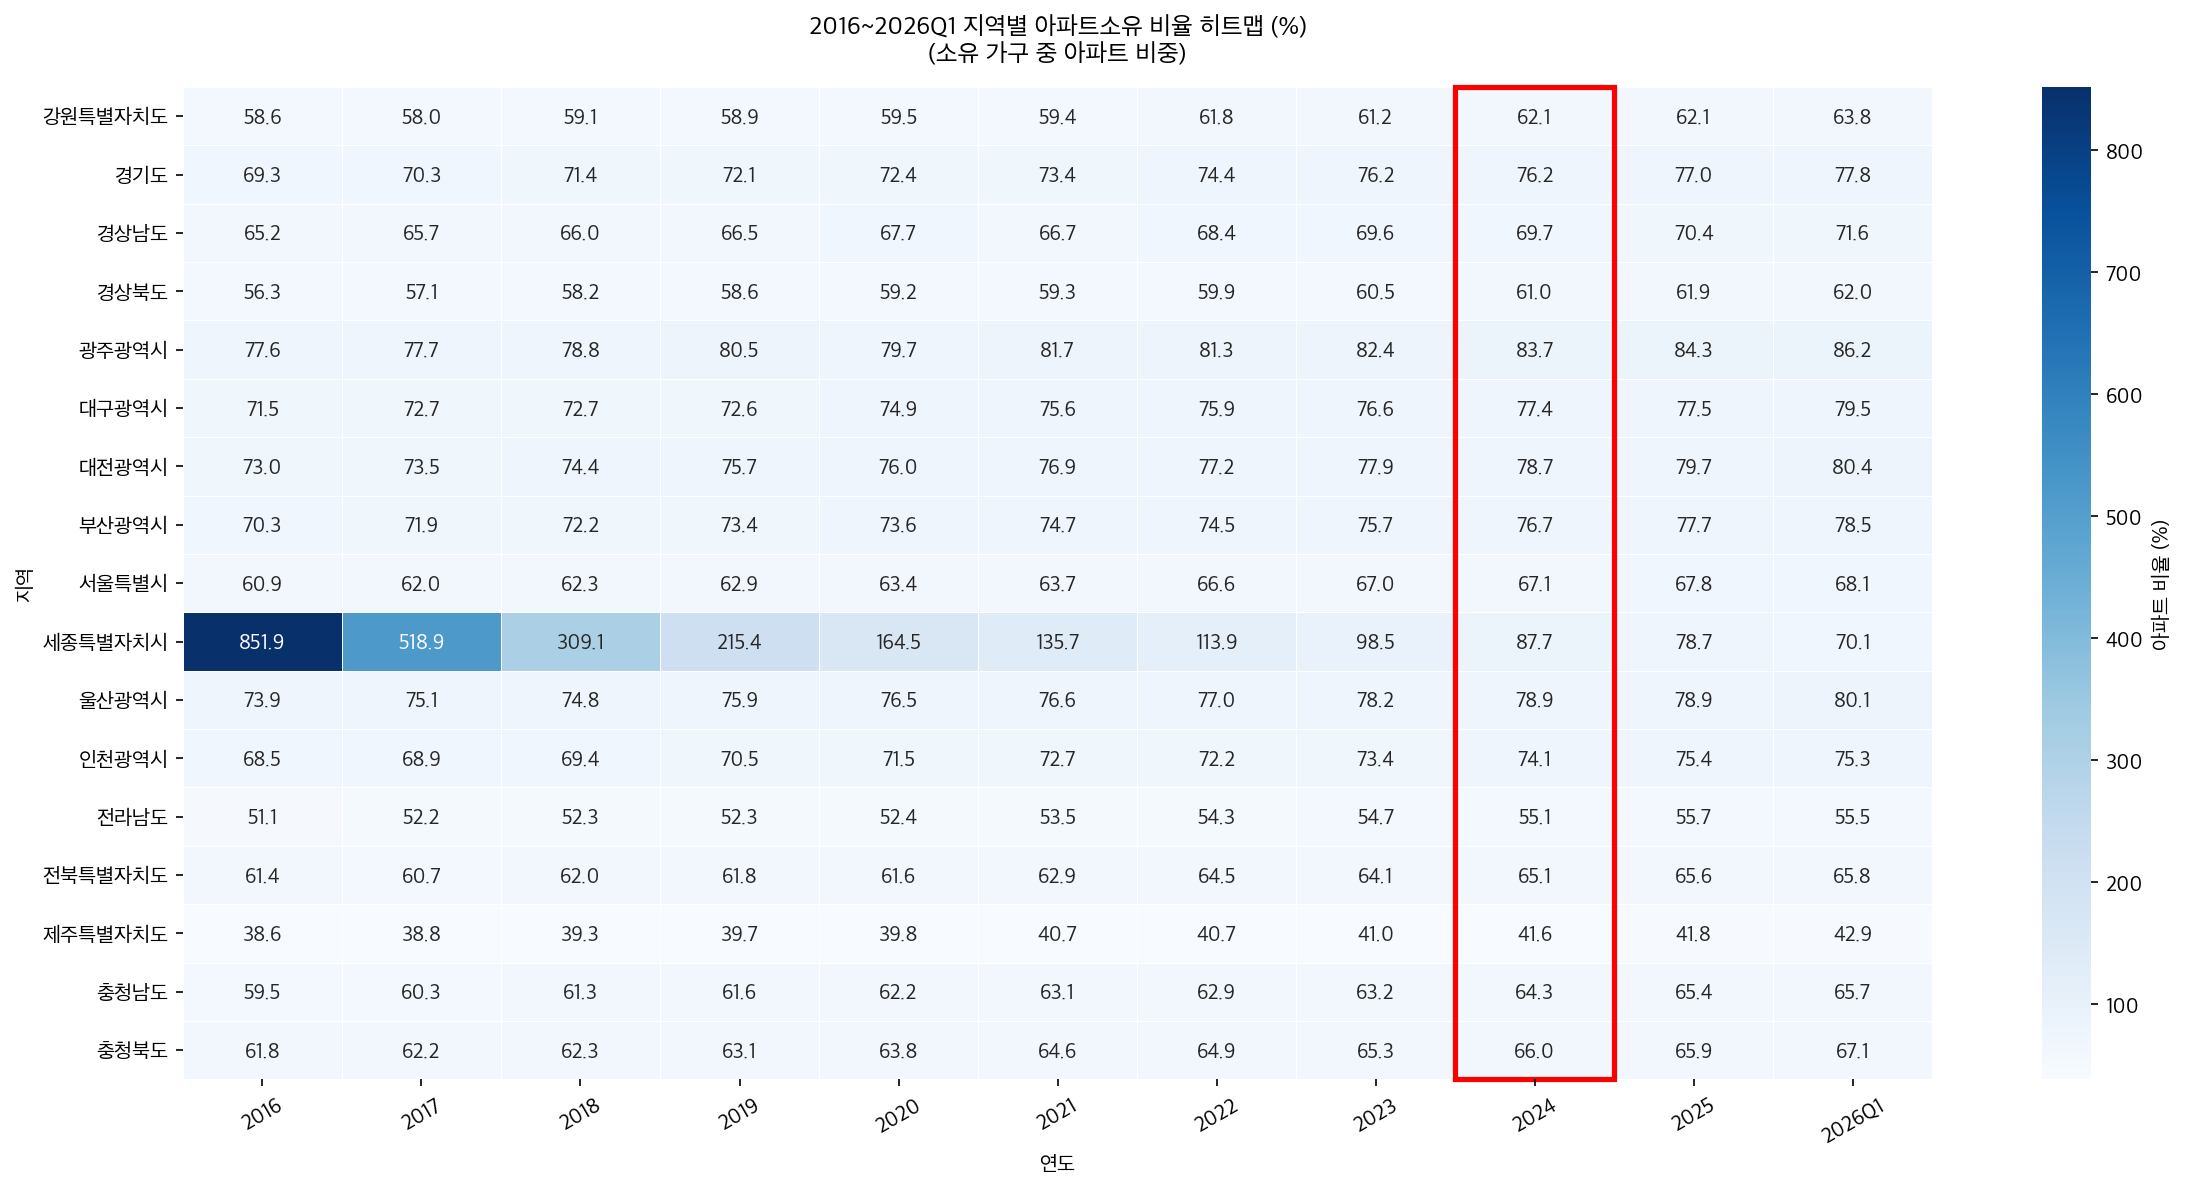
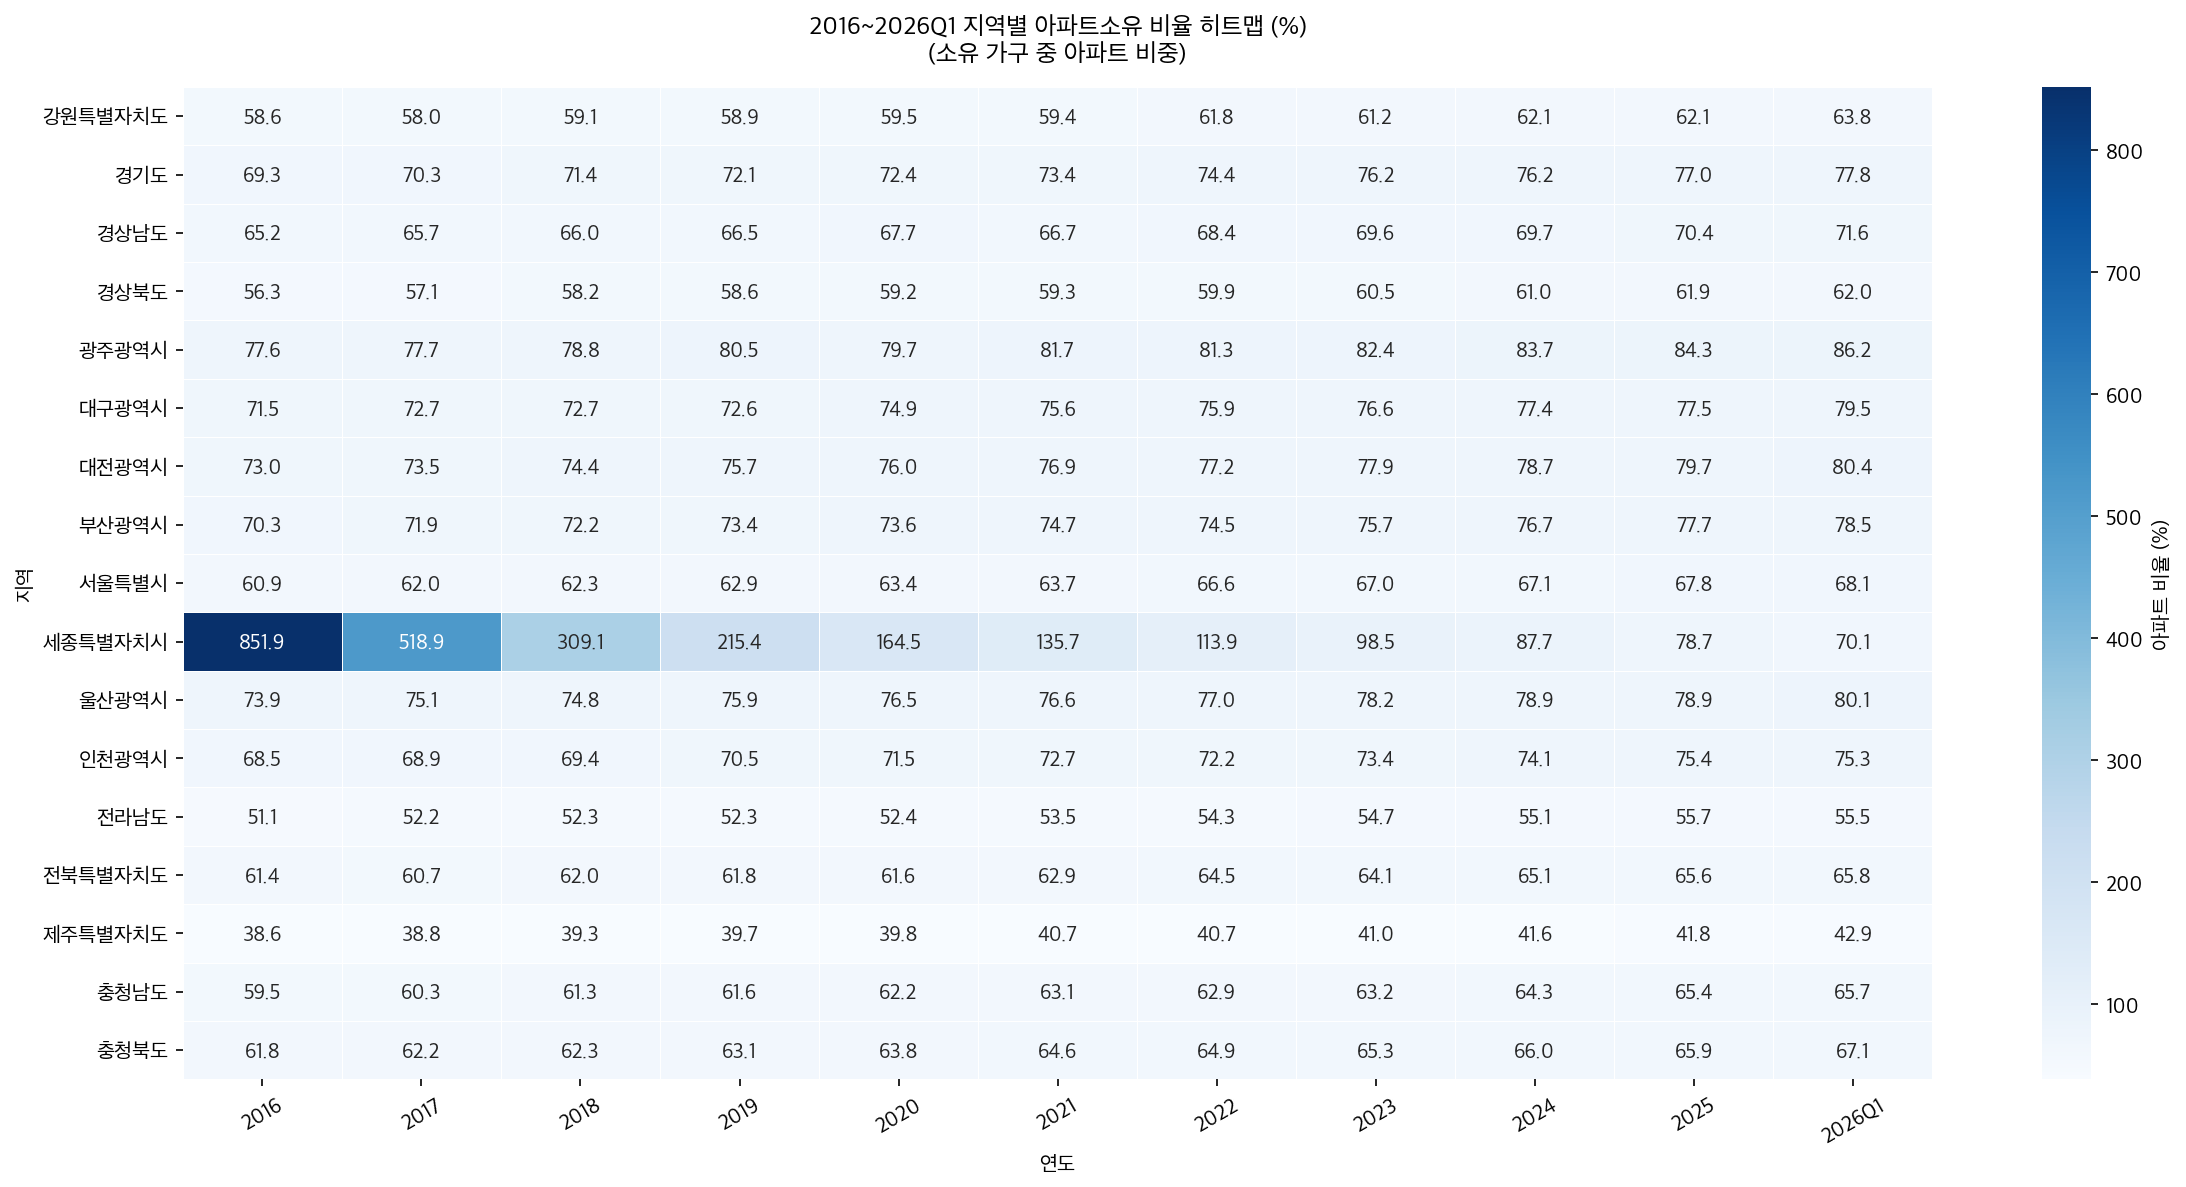
fix: 아파트비율 히트맵 2024 컬럼 빨간 테두리 제거

Changed region(s): [[0.6532, 0.0623, 0.7466, 0.9351]]

diff --git a/housing/housing_eda.py b/housing/housing_eda.py
@@ -376,9 +376,6 @@ sns.heatmap(hm_apt, annot=True, fmt=".1f", cmap="Blues", ax=ax,
             cbar_kws={"label": "아파트 비율 (%)"}, linewidths=0.3)
 ax.set_title("2016~2026Q1 지역별 아파트소유 비율 히트맵 (%)\n(소유 가구 중 아파트 비중)", pad=12)
 ax.tick_params(axis="x", rotation=30)
-idx2024 = [str(y) for y in YEARS].index("2024")
-ax.add_patch(plt.Rectangle((idx2024, 0), 1, len(REGIONS),
-             fill=False, edgecolor="red", lw=2.5, clip_on=False))
 fig.tight_layout()
 save(fig, "06_지역별_아파트비율_히트맵.png")
 
